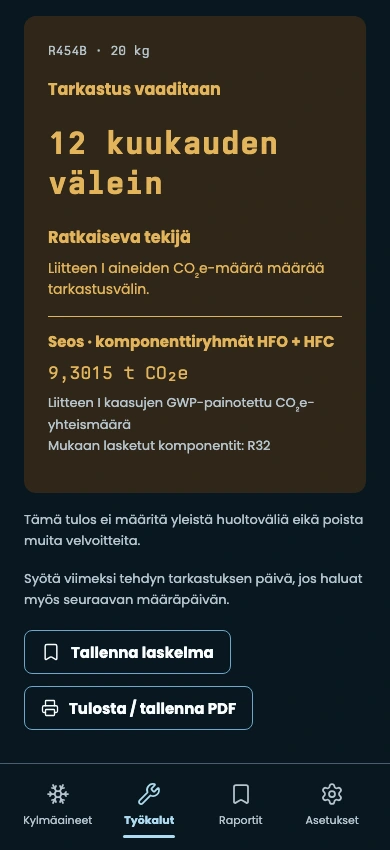
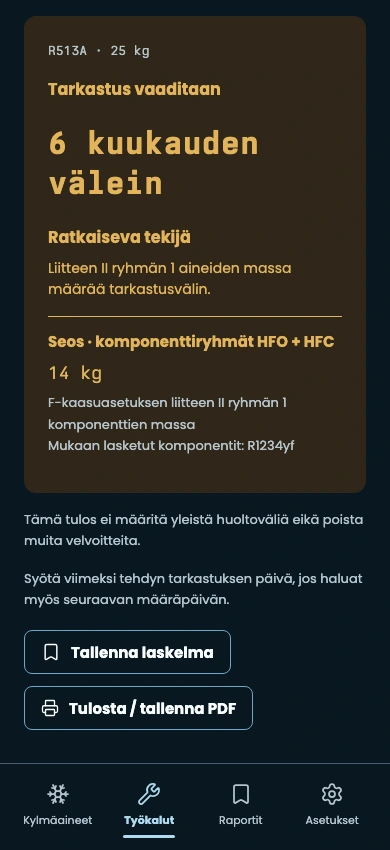
Show HFO-driven R513A blend inspection example

diff --git a/apps/web/about/render.ts b/apps/web/about/render.ts
@@ -117,7 +117,7 @@ export function renderAboutPage(locale: "fi" | "en") {
         `<article>${icon(name)}<h3>${title}</h3><p>${body}</p>${name === "chart" ? `<img class="calculator-preview" src="/about/images/cycle-desktop.webp" width="1220" height="850" alt="${l("Kylmäkierron log(p)–h-kaavio PhaseKitissä", "A refrigeration cycle log(p)–h diagram in PhaseKit")}" loading="lazy">` : ""}<a class="text-link" href="${app}${route}">${l("Tutustu sovelluksessa", "Explore in the app")}${arrow}</a></article>`,
     )
     .join("")}</div></section>
-<section id="story" class="story-band"><div class="wrap story-grid"><div><p class="section-number" aria-hidden="true">03 / ${l("ALKUSYSÄYS", "THE STARTING POINT")}</p><h2>${t.whyTitle}</h2><div class="story-text"><p>${t.whyBody}</p><p>${t.whyFollowup}</p></div><div class="story-signature"><span class="signature-rule"></span><span>Samu Hupli<br><small>${l("PhaseKitin tekijä", "Creator of PhaseKit")}</small></span></div></div><figure class="story-example"><div class="phone-frame"><img src="/about/images/blend-check-mobile.webp" width="390" height="850" alt="${l("Vuototarkastusarvion tulos ja laskentaperusteet R454B-seokselle, 20 kg", "Leak-check assessment result and basis for a 20 kg R454B blend charge")}" loading="lazy"></div><figcaption>${l("Esimerkkilaskelma R454B-seoksella. Tulos ja sen perusteet samassa näkymässä.", "An example using the R454B blend. The result and its basis in the same view.")}</figcaption></figure></div></section>
+<section id="story" class="story-band"><div class="wrap story-grid"><div><p class="section-number" aria-hidden="true">03 / ${l("ALKUSYSÄYS", "THE STARTING POINT")}</p><h2>${t.whyTitle}</h2><div class="story-text"><p>${t.whyBody}</p><p>${t.whyFollowup}</p></div><div class="story-signature"><span class="signature-rule"></span><span>Samu Hupli<br><small>${l("PhaseKitin tekijä", "Creator of PhaseKit")}</small></span></div></div><figure class="story-example"><div class="phone-frame"><img src="/about/images/blend-check-mobile.webp" width="390" height="850" alt="${l("Vuototarkastusarvion tulos ja laskentaperusteet R513A-seokselle, 25 kg", "Leak-check assessment result and basis for a 25 kg R513A blend charge")}" loading="lazy"></div><figcaption>${l("Esimerkkilaskelma: R513A, 25 kg. Seoksen HFO-komponentti määrää tarkastusvälin.", "Example: R513A, 25 kg. The blend’s HFO component determines the inspection interval.")}</figcaption></figure></div></section>
 <section class="principles wrap section" aria-labelledby="principles-title"><div class="section-heading"><p class="section-number" aria-hidden="true">04 / ${l("PERIAATTEET", "PRINCIPLES")}</p><h2 id="principles-title">${t.principlesTitle}</h2><p class="principles-intro">${escape(t.principlesIntro)}</p></div><div class="principle-grid">${(
     [
       ["source", t.sourceTitle, t.sourceBody],

diff --git a/docs/design/about-page.md b/docs/design/about-page.md
@@ -32,7 +32,7 @@ Portrait `samu-hupli.jpg` was supplied by Samu for this page and copied without 
 
 The opening now states the memory/learning benefit and explicitly identifies refrigeration work and study across phone, tablet and computer. A short explanation of visible formulas, sources, limits and export precedes a three-step illustrative service workflow. Refrigerant data and report imagery share the workflow; the full feature inventory follows it.
 
-`blend-check-mobile.webp` is a real app screenshot: R454B, 20 kg, assessment date 2026-10-04, stationary refrigeration, no leak detection, not hermetically sealed, no previous inspection date. The displayed result and its limitations are preserved. It is an illustrative calculation, not a customer record. Reproduce with `node scripts/about-capture-blend.mjs` against local preview4184.
+`blend-check-mobile.webp` is a real app screenshot: R513A, 25 kg, assessment date 2026-10-04, stationary refrigeration, no leak detection, not hermetically sealed, no previous inspection date. The displayed result is six months, governed by 14 kg of R1234yf (Annex II group 1); its limitations are preserved. It is an illustrative calculation, not a customer record. Reproduce with `node scripts/about-capture-blend.mjs` against local preview4184.
 
 ## Professional workflow emphasis
 
